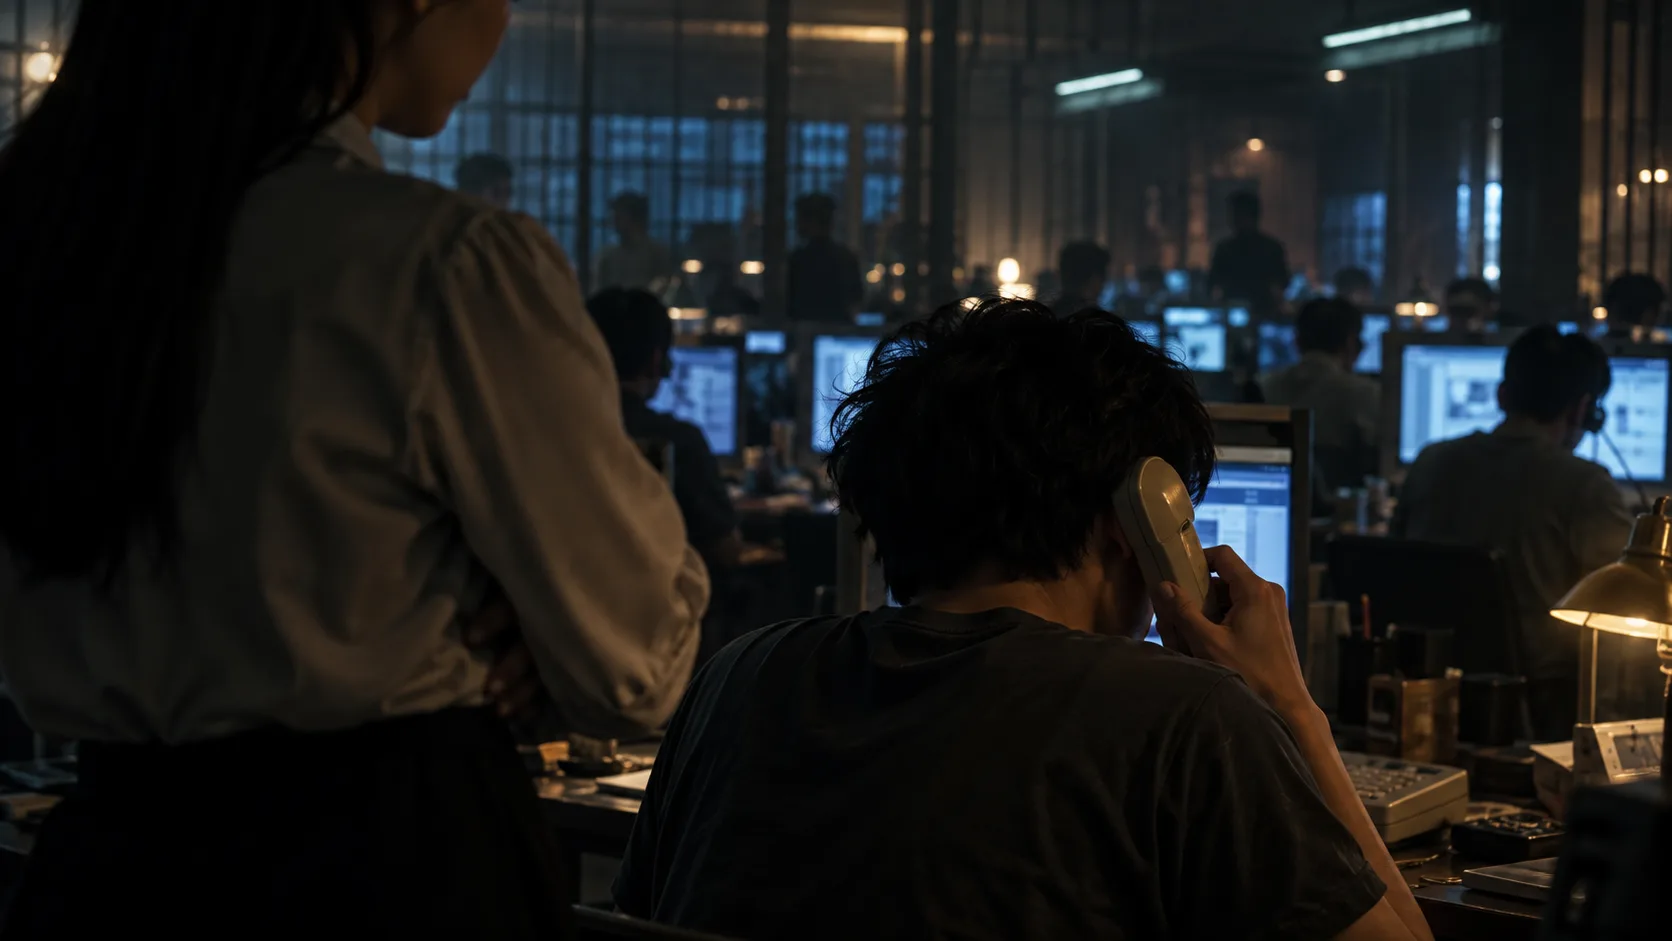
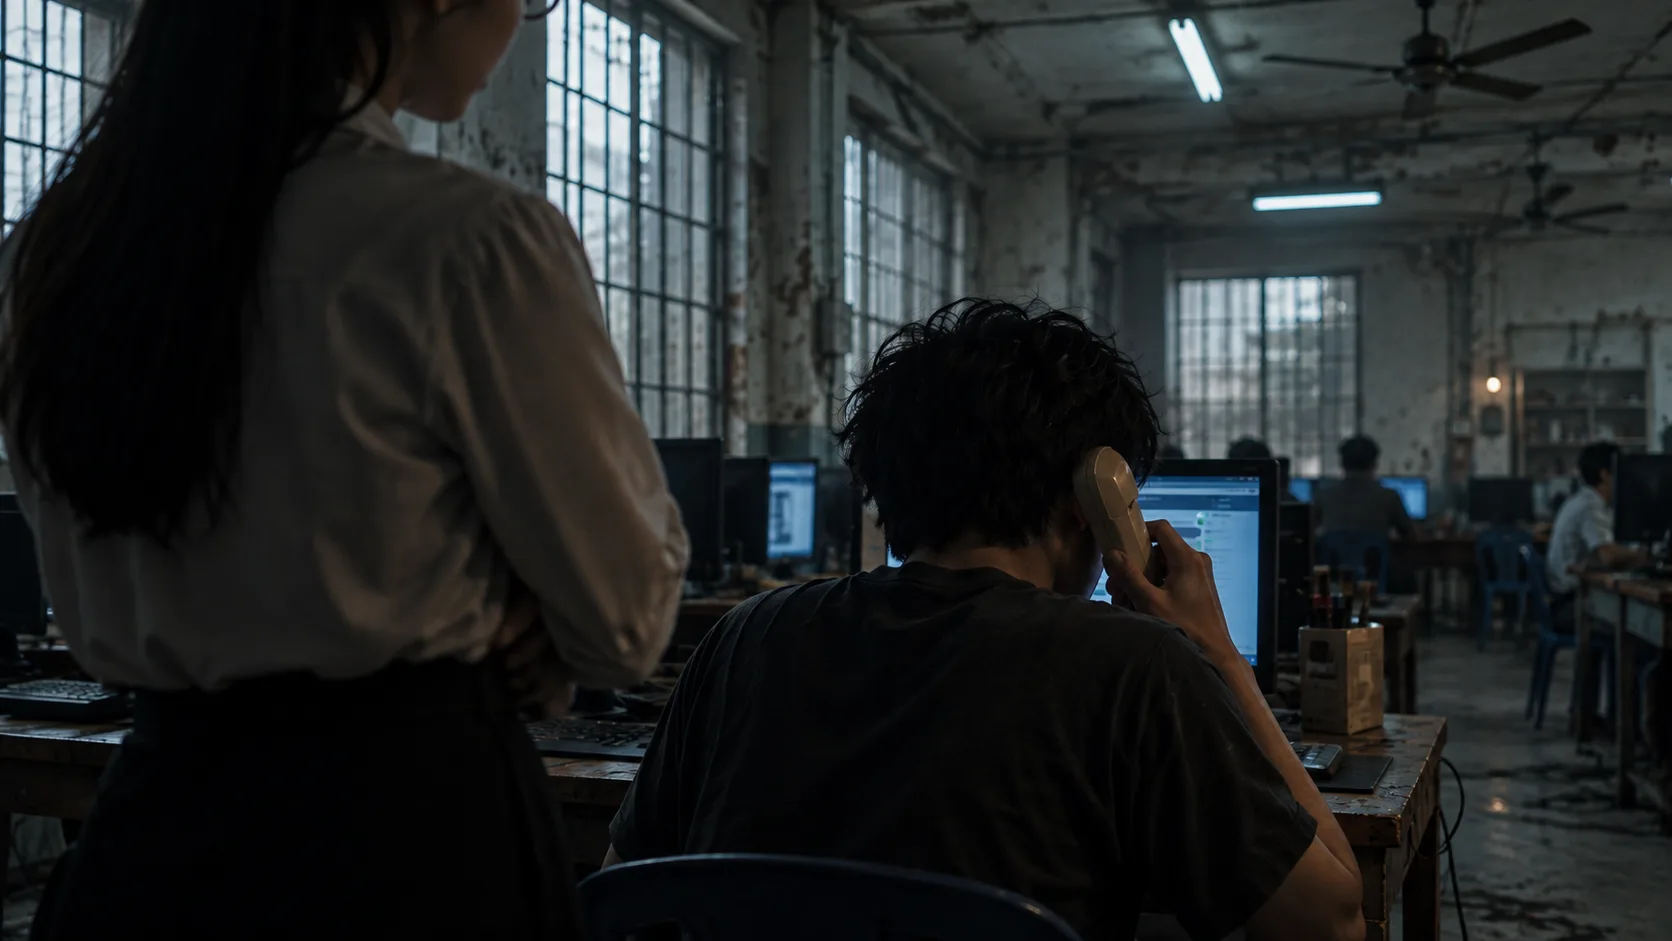
Phần 2: ảnh chứng cứ trong máy giấu, hình nền máy giấu, nền máy Chị Bảy, sửa nền cuộc gọi về nhà
Claude-Session: https://claude.ai/code/session_01HNjmrhuPibjdRQHX2tRDHB

diff --git a/xula2/thietbi2.js b/xula2/thietbi2.js
@@ -68,9 +68,10 @@ threadOf=function(r){ const ai=String(r.ai||''); if(P2.on&&r.kieu==='tin'&&ai.st
 
 /* ---------- 2. MÁY GIẤU TRONG TRẠI ---------- */
 const P2LOG=()=>(S.p2log=S.p2log||[]);
-const ALBUM=[['x_so','Ảnh','Chụp trong ngăn kéo văn phòng lầu ba'],['x_giongthat','Ghi âm','Ghi qua khe cửa văn phòng lầu ba'],['x_khaibay','Ghi âm','Ghi lúc Chị Bảy kể chuyện trên lầu ba'],['x_lich','Ảnh','Tờ giấy tự vẽ lịch lính gác, chụp lại cho khỏi quên'],['x_tu','Ảnh','Chụp lén ông Tú lúc qua trại'],['x_vi','Ảnh','Chụp màn hình máy trạm: ví tổng tối Chủ nhật']];
+const ALBUM=[['x_so','Ảnh','Chụp trong ngăn kéo văn phòng lầu ba','x2-album-so'],['x_giongthat','Ghi âm','Ghi qua khe cửa văn phòng lầu ba'],['x_khaibay','Ghi âm','Ghi lúc Chị Bảy kể chuyện trên lầu ba'],['x_lich','Ảnh','Tờ giấy tự vẽ lịch lính gác, chụp lại cho khỏi quên','x2-album-lich'],['x_tu','Ảnh','Chụp lén ông Tú lúc qua trại','x2-album-tu'],['x_vi','Ảnh','Chụp màn hình máy trạm: ví tổng tối Chủ nhật','x2-album-vi']];
+const WAVE='<div aria-hidden="true" style="display:flex;align-items:center;gap:2px;height:34px;margin:6px 0">'+Array.from({length:40},(_,i)=>'<i style="display:block;width:3px;border-radius:2px;background:#f0b25c;opacity:.8;height:'+(6+Math.abs(Math.sin(i*1.7)*Math.cos(i*.4))*26)+'px"></i>').join('')+'</div>';
 const ccText=k=>{ const r=T[IDX['CC_'+k]]; return r?{ten:r.ai,loi:r.loi}:null; };
-function renderMayGiau(tab){ const b=$('phBody'); tabs();
+function renderMayGiau(tab){ const b=$('phBody'); tabs(); b.classList.toggle('wall',tab!=='tin'); b.style.setProperty('--wall','url(img2/x2-maygiau-nen.webp)'); if(tab==='tin'){ b.style.background='linear-gradient(rgba(8,10,16,.78),rgba(8,10,16,.9)),url(img2/x2-maygiau-nen.webp) center/cover'; }
   if(tab==='tin'){ $('phTitle').textContent='Máy giấu'; const L=P2LOG();
     const can=hasF('x_may')&&!hasF('x_cho_xn')&&typeof nextWord==='function'&&nextWord(), tam=S.room==='tam';
     b.innerHTML='<div class="ph-tip">Máy cũ dán dưới đáy thùng nước. Không có tên ai trong danh bạ. Tin vô ra đều giả làm tin rác.</div>'+
@@ -79,11 +80,11 @@ function renderMayGiau(tab){ const b=$('phBody'); tabs();
     const g=$('mgGui'); if(g&&!g.disabled) g.onclick=async()=>{ if(busy) return; closePhone(); busy=true; try{ await P2GAMES.gui(); } finally { busy=false; hud(); } };
     return; }
   if(tab==='anh'){ $('phTitle').textContent='Ảnh & ghi âm'; const L=ALBUM.filter(a=>hasC(a[0])).map(a=>({a,c:ccText(a[0])})).filter(x=>x.c);
-    b.innerHTML='<div class="ph-tip">Chứng cứ đã chụp, đã ghi. Ra được tới ngoài là gửi cho đại úy Vinh.</div>'+(L.length?L.map(({a,c})=>'<div class="card"><b>'+(a[1]==='Ghi âm'?'🎙 ':'📷 ')+esc(c.ten)+'</b>'+esc(c.loi)+'<span class="from">'+esc(a[2])+'</span></div>').join(''):'<div class="ph-note">Chưa chụp, chưa ghi được gì.</div>');
+    b.innerHTML='<div class="ph-tip">Chứng cứ đã chụp, đã ghi. Ra được tới ngoài là gửi cho đại úy Vinh.</div>'+(L.length?L.map(({a,c})=>'<div class="card">'+(a[3]?'<img src="img2/'+a[3]+'.webp" alt="" loading="lazy" style="display:block;width:100%;aspect-ratio:4/3;object-fit:cover;border-radius:8px;margin-bottom:8px" onerror="this.remove()">':'')+'<b>'+(a[1]==='Ghi âm'?'🎙 ':'📷 ')+esc(c.ten)+'</b>'+(a[1]==='Ghi âm'?WAVE:'')+esc(c.loi)+'<span class="from">'+esc(a[2])+'</span></div>').join(''):'<div class="ph-note">Chưa chụp, chưa ghi được gì.</div>');
     return; }
   if(tab==='tim'){ $('phTitle').textContent='Tìm'; b.innerHTML='<div class="ph-note" style="padding:16px;line-height:1.6">Không dám lên mạng tra cứu. Trại dò được máy lạ bắt sóng wifi.</div>'; return; } }
 const renderPhone2=renderPhone;
-renderPhone=function(){ if(P2.on&&P2.map==='trai'&&hasF('x_may')&&['tin','anh','tim'].includes(phTab)){ phThread=null; return renderMayGiau(phTab); } return renderPhone2(); };
+renderPhone=function(){ $('phBody').style.background=''; if(P2.on&&P2.map==='trai'&&hasF('x_may')&&['tin','anh','tim'].includes(phTab)){ phThread=null; return renderMayGiau(phTab); } return renderPhone2(); };
 /* ghi lại tin gửi ra, tin rác vô */
 const p2gui1=P2GAMES.gui;
 P2GAMES.gui=async()=>{ const before=S.co.x_cho_xn; const gc=giauChu; let txt='';
@@ -107,9 +108,9 @@ function gMayTram(){ return new Promise(res=>{ let tab='kh', left=45, seen={}, d
     if(tab==='nhom') return '<p class="tip">Nhóm "QL khu B". Chị Bảy quên đăng xuất.</p>'+MT_NHOM.map(([a,t])=>'<div class="p2msg"><b style="color:#f0b25c">'+esc(a)+'</b><br>'+esc(t)+'</div>').join('');
     if(tab==='bang') return '<p class="tip">Bảng chỉ tiêu tuần. Tên dưới 3 đơn tô đỏ.</p>'+[ME].concat(ds.map(p=>p.ten)).slice(0,8).map((n,i)=>{ const v=n===ME?CT():((n.length*7+i*3)%6); return '<div class="p2opt" style="display:flex;justify-content:space-between"><span>'+esc(n)+'</span><b style="color:'+(v<3?'#e2645c':'#5fb37a')+'">'+v+' đơn</b></div>'; }).join('');
     return '<p class="tip">Thùng rác: 1 tệp.</p><div class="p2opt"><b>danhsach_chuyen_thang6.xlsx</b><br>13 dòng đã xóa. Dòng cuối còn đọc được: "Nguyễn Thị Oanh · chuyển bãi K-Kay".</div>'; };
-  const draw=()=>{ p2open('<h3>Máy trạm · Chị Bảy</h3><div class="p2bar" style="margin:0 0 8px"><span class="tip" style="margin:0">Còn <b id="mtT">'+left+'</b> giây trước khi có người quay lại</span></div><div class="tbar" style="height:6px;background:#232a3d;border-radius:3px;overflow:hidden;margin-bottom:10px"><b id="mtB" style="display:block;height:100%;width:'+(left/45*100)+'%;background:linear-gradient(90deg,#f0b25c,#e2645c)"></b></div>'+
+  const draw=()=>{ p2open('<div style="position:absolute;inset:0;z-index:0;background:linear-gradient(rgba(10,12,18,.66),rgba(10,12,18,.88)),url(img2/x2-maytram.webp) center/cover;border-radius:inherit;pointer-events:none"></div><div style="position:relative;z-index:1"><h3>Máy trạm · Chị Bảy</h3><div class="p2bar" style="margin:0 0 8px"><span class="tip" style="margin:0">Còn <b id="mtT">'+left+'</b> giây trước khi có người quay lại</span></div><div class="tbar" style="height:6px;background:#232a3d;border-radius:3px;overflow:hidden;margin-bottom:10px"><b id="mtB" style="display:block;height:100%;width:'+(left/45*100)+'%;background:linear-gradient(90deg,#f0b25c,#e2645c)"></b></div>'+
       '<div style="display:grid;grid-template-columns:150px 1fr;gap:12px"><nav style="display:flex;flex-direction:column;gap:6px">'+APP.map(([k,l])=>'<button type="button" class="btn'+(tab===k?' p2main':' ghost')+'" data-app="'+k+'" style="text-align:left">'+esc(l)+'</button>').join('')+'</nav><div>'+body()+'</div></div>'+
-      '<div class="p2bar"><span></span><button class="btn p2main" id="mtX2" type="button">Tắt màn hình, đi ra</button></div>',()=>fin(false));
+      '<div class="p2bar"><span></span><button class="btn p2main" id="mtX2" type="button">Tắt màn hình, đi ra</button></div></div>',()=>fin(false));
     document.querySelectorAll('[data-app]').forEach(b=>b.onclick=()=>{ tab=b.dataset.app; draw(); }); $('mtX2').onclick=()=>fin(false); };
   const fin=late=>{ if(done) return; done=true; clearInterval(iv); p2close(); setCo('x_maytram');
     if(seen.nhom&&!hasC('x_vi')) { fx('+cc:x_vi'); toast('Manh mối mới: ví tổng tối Chủ nhật'); }

diff --git a/taotestcaigiketao.html b/taotestcaigiketao.html
@@ -3402,4 +3402,4 @@ try{ btvApply(); }catch(e){} { const _rb=rebuild; rebuild=function(){ const r=_r
   setTimeout(()=>{ box.hidden=false; document.addEventListener('keydown',esc); document.getElementById('chaoGo').focus(); },500);
 })();
 </script>
-<script src="xula2/p2.js?v=1792684065"></script><script src="xula2/games2.js?v=1792684065"></script><script src="xula2/rows2.js?v=1792684065"></script><script src="xula2/rows2b.js?v=1792684065"></script><script src="xula2/data2.js?v=1792684065"></script><script src="xula2/thietbi2.js?v=1792684065"></script><script src="xula2/test2.js?v=1792684065"></script></body></html>
+<script src="xula2/p2.js?v=1792687485"></script><script src="xula2/games2.js?v=1792687485"></script><script src="xula2/rows2.js?v=1792687485"></script><script src="xula2/rows2b.js?v=1792687485"></script><script src="xula2/data2.js?v=1792687485"></script><script src="xula2/thietbi2.js?v=1792687485"></script><script src="xula2/test2.js?v=1792687485"></script></body></html>
